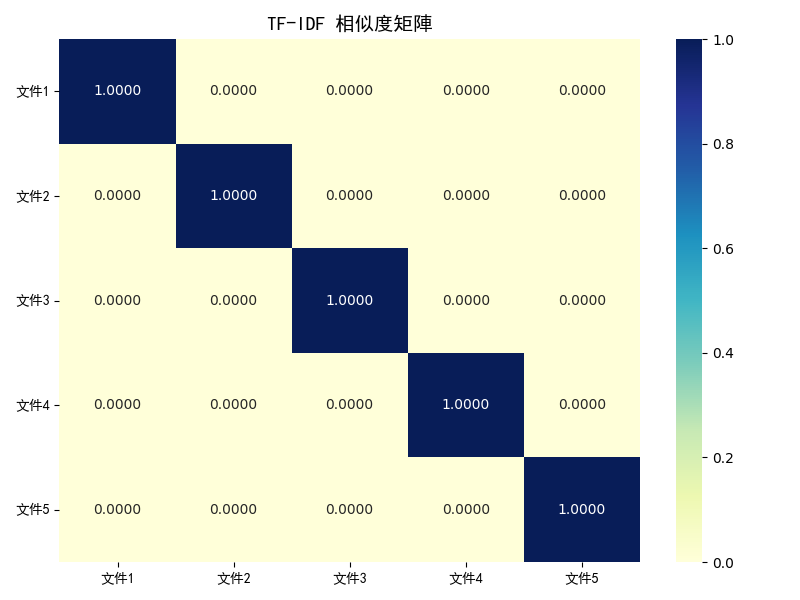
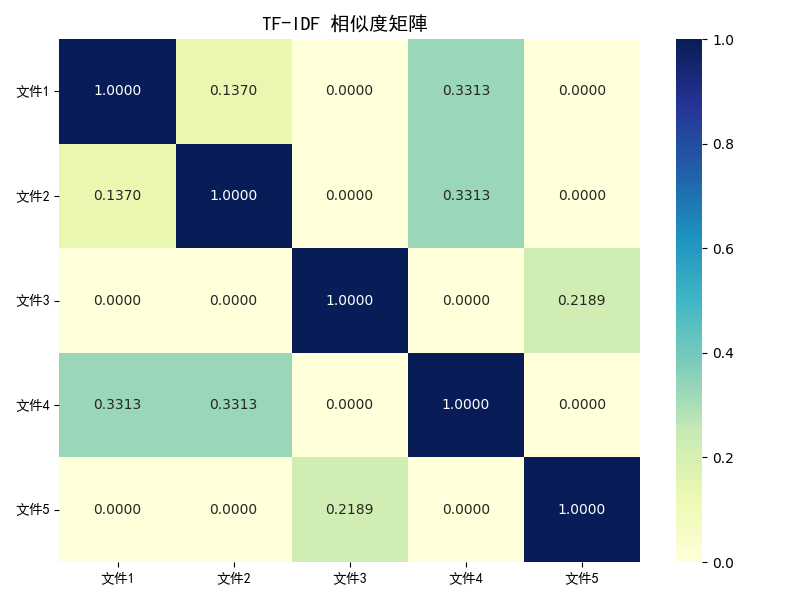
Add files via upload

Changed region(s): [[0.2188, 0.0, 0.8125, 0.6], [0.0625, 0.57, 0.5312, 0.96], [0.0625, 0.24, 0.2188, 0.42]]

diff --git a/report.md b/report.md
@@ -4,11 +4,11 @@
 | :--- | :--- | :--- |
 | **相似度計算** | | |
 | 準確率 | 低 (僅字面) | 高 (含語意) |
-| 處理時間 | 0.0021 秒 | 0.4625 秒 |
+| 處理時間 | 0.0055 秒 | 0.6062 秒 |
 | 成本 | $0 | Token 計費 |
 | **文本分類** | | |
 | 準確率 | 50% | 100% |
-| 處理時間 | 0.0001 秒 | 0.6056 秒 |
+| 處理時間 | 0.0003 秒 | 0.5522 秒 |
 | 支援類別數 | 有限 | 無限 |
 | **自動摘要** | | |
 | 資訊保留度 | 中 (抽取) | 高 (生成) |
@@ -26,7 +26,7 @@
 
 優勢：運算速度極快，幾乎不需要昂貴的硬體資源；邏輯透明且具可解釋性（白箱模型），我們可以清楚知道為什麼某個關鍵字觸發了分類；開發與維護成本低（無需 Token 費用）。
 
-限制：無法理解語意是最大致命傷。正如本次實作的 TF-IDF 矩陣所示，因為文件間沒有完全相同的字詞重疊，即便語意相關（如「人工智慧」與「機器學習」），相似度計算結果仍為 0。此外，規則式分類需要人工維護大量的關鍵字庫，難以窮舉所有變體。
+限制：無法理解語意是最大致命傷。正如本次實作的 TF-IDF 矩陣所示，雖然有運用斷詞，但它仍然依賴「字面上的重疊」。如果兩篇文章用詞不同（例如一篇用「計算機」，另一篇用「電腦」），即便指涉相同概念，傳統方法計算出的相似度仍會過低，無法像 AI 一樣捕捉到概念上的關聯。
 
 適用場景：關鍵字搜尋、簡單的指令過濾（如 Spam filter）、對延遲要求極低且算力受限的嵌入式系統。
 
@@ -42,11 +42,11 @@
 
 ### 實作過程中遇到的困難
 
-困難點在於中文斷詞與特徵提取。在 TF-IDF 實作中，由於未引入像 Jieba 等專業斷詞庫，僅依靠字元或簡單空白切割，導致詞彙特徵過於稀疏。這直接導致了相似度矩陣出現「全零」的現象，讓我深刻體會到傳統 NLP 方法對前處理工程的高度依賴。
+最深刻的體會在於「中文斷詞（Tokenization）」對傳統方法的決定性影響。 起初實作 TF-IDF 時，因未引入 Jieba 等專業斷詞庫，導致程式將整句話視為一個詞，相似度計算失效（全為 0）。在加入 Jieba 斷詞並修正後，雖然成功算出了相似度數值，但也讓我意識到傳統 NLP 方法對「前處理工程」的高度依賴——若斷詞不精準或遭遇新詞（Out-of-Vocabulary），效果就會大打折扣。
 
 ### 對兩種方法的理解和感受
 
-傳統方法像是一個「精確的比對機器」，它嚴格遵守指令，但不懂變通，一字之差就無法匹配。
+傳統方法像是一個「精確的比對機器」，它嚴格遵守指令，雖然在修正斷詞後能比對出相同詞彙，但本質上仍是不懂變通的，一字之差往往就影響計算結果。
 AI 方法則像是一個「博學的助理」，它能讀懂字裡行間的意思，即便用詞不同也能抓到核心概念。從分類結果來看，AI 能給出更細膩的信心分數與正確的主題判斷。
 
 ### 未來的學習方向

diff --git a/README.md b/README.md
@@ -28,6 +28,8 @@
 ## 1. 必要套件
 主要依賴套件列於 requirements.txt 中：
 
+jieba
+
 openai
 
 pandas
